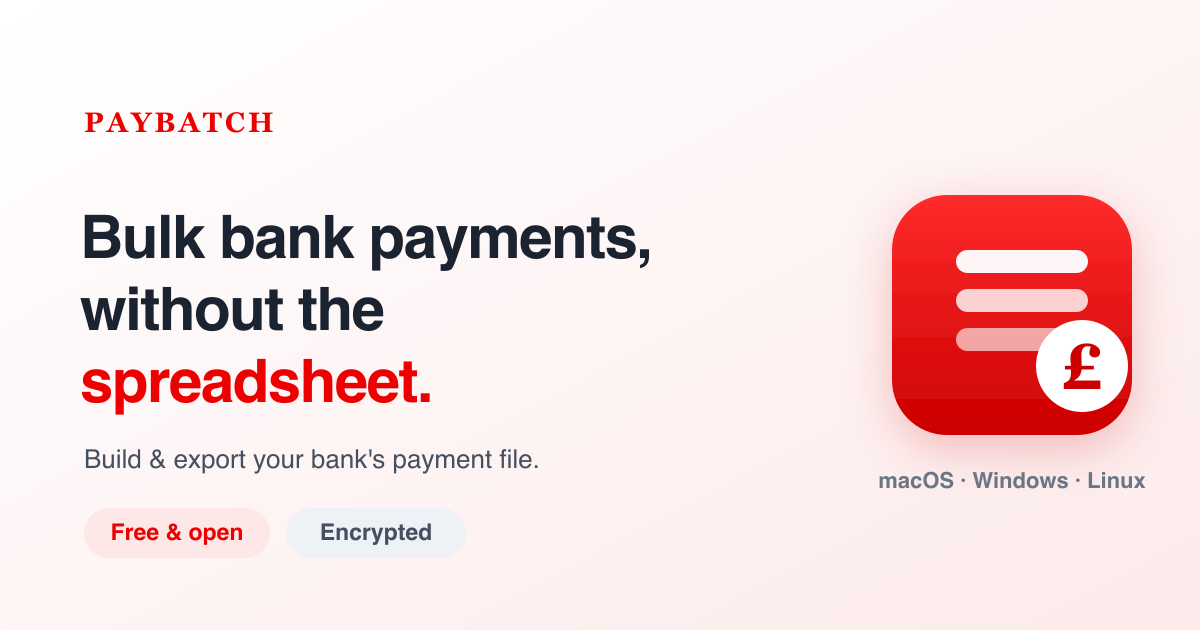
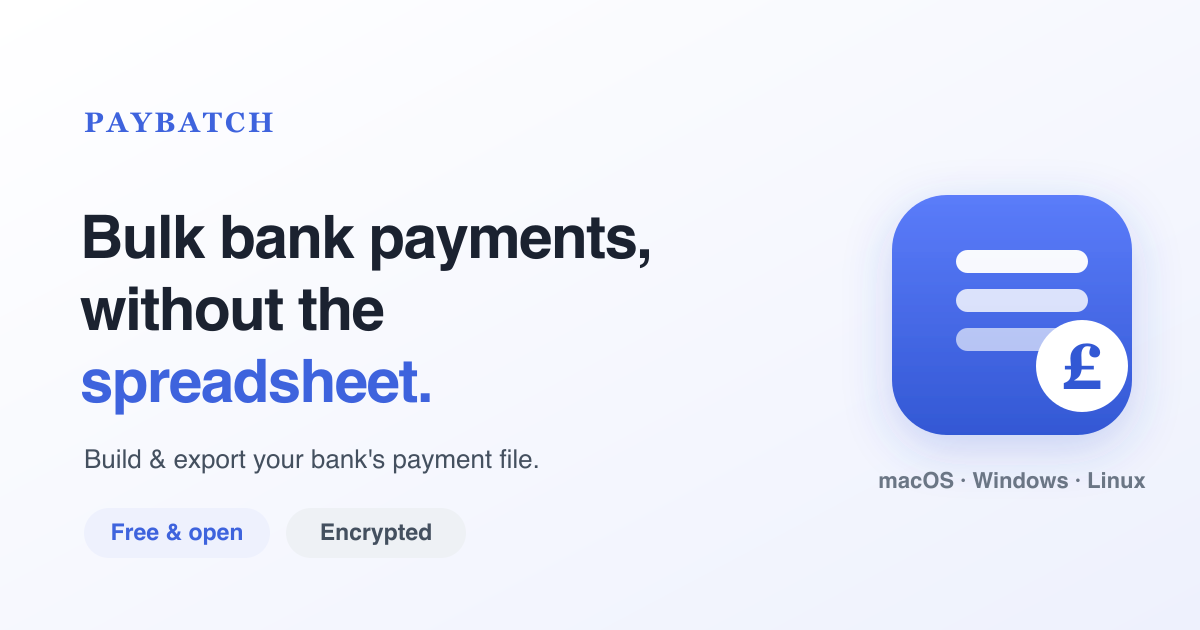
docs: rebrand website + README to indigo; refresh for React UX
- docs/ site (logo, og image, icon, --red token, pill) recoloured to indigo;
  Santander demo tile keeps its own brand red
- README: add Screenshots section, update bank-picker→wizard, project layout→
  React renderer, dev workflow; screenshots note lists the new shots to add

diff --git a/docs/style.css b/docs/style.css
@@ -1,5 +1,5 @@
 :root {
-  --red: #ec0000; --red-dark: #b30000; --ink: #1b2230; --muted: #6b7685;
+  --red: #3e63dd; --red-dark: #3358d4; --ink: #1b2230; --muted: #6b7685;
   --line: #e6e9ef; --bg: #f6f8fb; --card: #fff;
   --ok: #1a8754; --err: #d83a3a;
   --shadow: 0 1px 3px rgba(20,30,50,.08), 0 12px 30px rgba(20,30,50,.08);
@@ -34,7 +34,7 @@ a { color: inherit; }
   max-width: 1140px; margin: 0 auto; padding: 70px 28px 40px;
 }
 @media (max-width: 880px) { .hero { grid-template-columns: 1fr; padding-top: 44px; } }
-.pill { display: inline-block; background: #fde7e7; color: var(--red); font-weight: 700; font-size: 12.5px;
+.pill { display: inline-block; background: #eef1fd; color: var(--red); font-weight: 700; font-size: 12.5px;
   padding: 5px 12px; border-radius: 20px; }
 .hero h1 { font-size: 48px; line-height: 1.07; margin: 16px 0 14px; }
 @media (max-width: 880px) { .hero h1 { font-size: 36px; } }

diff --git a/README.md b/README.md
@@ -30,13 +30,26 @@ Enter payments (or import/paste from Excel), fix any problems with **inline vali
 Bacs, ISO 20022 or SEPA. Everything runs on your own machine — **no data ever leaves
 your computer**, and what's stored is **encrypted**.
 
+## Screenshots
+
+| Choose your bank — guided wizard | Build batch |
+| --- | --- |
+| ![Home wizard](docs/screenshots/home-wizard.png) | ![Build batch](docs/screenshots/build.png) |
+
+| Bank & format picker | Dark mode |
+| --- | --- |
+| ![Bank picker](docs/screenshots/bank-list.png) | ![Dark mode](docs/screenshots/build-dark.png) |
+
 ## Features
 
 - ✅ **Multiple banks & formats** — Santander (Bacs import + mixed payments), plus the
   cross-bank standards **Bacs Standard 18**, **ISO 20022** (UK domestic GBP) and **SEPA**
   (euro/IBAN). Pick your bank and the right format is offered. *(Verify with a test
   upload — formats are built from public specs.)*
-- ✅ **Searchable bank picker** — a grouped, searchable card grid (Available / Coming soon).
+- ✅ **Guided wizard** — a step-by-step start (Choose your bank → Start your batch →
+  Build & export) with a searchable bank/format list that separates **banks** from
+  **cross-bank formats** and shows each option's supported formats.
+- ✅ **Light & dark themes** — System / Light / Dark, remembered between launches.
 - ✅ **UK modulus check** — the official VocaLink check flags sort code/account
   combinations that can't be real accounts (likely typos), as an amber warning.
 - ✅ **Inline, per-field validation** — bad cells are highlighted with the reason; the
@@ -71,10 +84,11 @@ Grab the latest installer for your OS from the
 git clone https://github.com/victorsaly/batch-payment-app.git
 cd batch-payment-app
 npm install
-npm start
+npm start            # Vite dev server + Electron, with hot reload
 ```
 
-Requires Node.js 18+.
+Requires Node.js 18+. The UI is **React + Vite**; the payment-format engines are pure,
+dependency-free modules reused by the renderer via `src/renderer-src/core.js`.
 
 ## Build installers locally
 
@@ -162,8 +176,10 @@ The complete layout for both formats lives in one file:
 |------|---------|
 | `main.js` | Electron main process — window, encrypted storage, import/export dialogs |
 | `preload.js` | Secure IPC bridge between UI and filesystem |
-| `src/santander.js` | **Format engines + validation** (`SPEC` / `MIXED`) |
-| `src/index.html` · `styles.css` · `renderer.js` | The user interface |
+| `src/santander.js` · `standard18.js` · `iso20022.js` · `sepa.js` · `modulus.js` | **Pure format engines + validation** |
+| `src/banks.js` | Bank / cross-bank-format registry |
+| `src/renderer-src/` | React + Vite UI (screens, components, store); reuses the engines via `core.js` |
+| `src/styles.css` | Design-token stylesheet (light + dark) |
 | `test/run.js` | Dependency-free test suite (`npm test`) |
 | `.github/workflows/` | CI + release pipelines |
 

diff --git a/docs/screenshots/README.md b/docs/screenshots/README.md
@@ -1,8 +1,17 @@
 # Screenshots
 
-Drop real app screenshots here (PNG) and reference them from `docs/index.html`.
+Drop real app screenshots here (PNG). They're referenced by the root `README.md`
+(and can be used in `docs/index.html`).
 
-Quick capture on macOS: **Cmd + Shift + 4**, then press **Space**, then click the
-PayBatch window — it saves a clean window shot to your Desktop. Move it here as
-`build.png` (and `home.png`, `help.png` if you like), then swap the CSS preview in
-`index.html` for an `<img src="screenshots/build.png">`.
+Capture the **new (v1.2.0) UX** and save with these names:
+
+| File | Shows |
+| --- | --- |
+| `home-wizard.png` | Home — guided wizard, Step 1 "Choose your bank" (light) |
+| `bank-list.png` | The bank / cross-bank-format list with format chips |
+| `build.png` | Build batch screen (settings + add-payment form + grid), light |
+| `build-dark.png` | Build batch (or Home) in dark mode |
+
+Quick capture on macOS: **Cmd + Shift + 4**, then **Space**, then click the PayBatch
+window for a clean window shot. Keep each file reasonably small (< ~400 KB; optimise
+if needed). Replace the old `build.png` / `help.png` with the new shots.